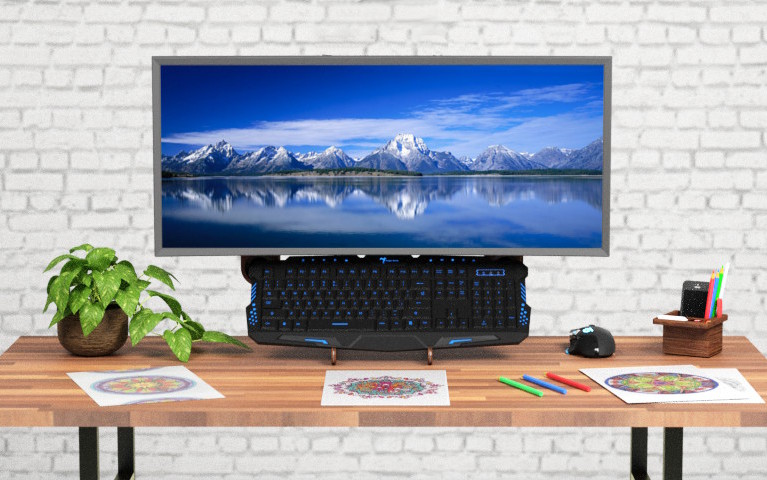
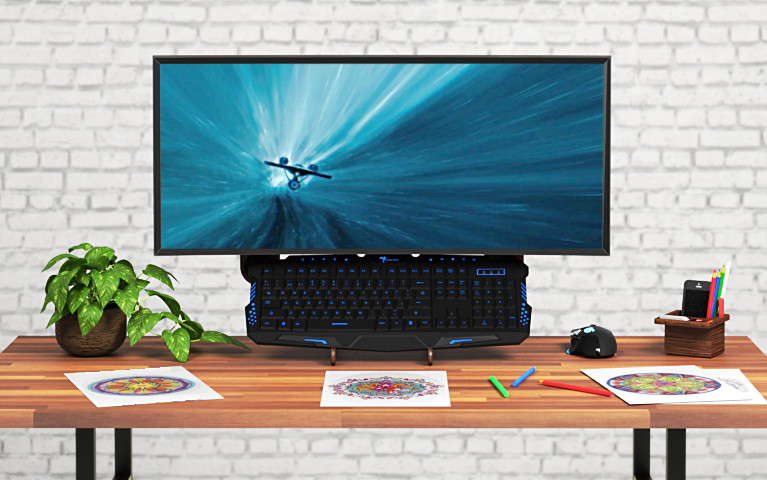
Updated space frontier picture

diff --git a/_layouts/home.html b/_layouts/home.html
@@ -29,7 +29,7 @@
         <div class="card">
           <div class="content">
             <h3 class="title text-center">
-              <span class="hidden-xs hidden-sm">Turn any Form Factor into a Modular All-in-One</span>
+              <span class="hidden-xs hidden-sm">ViDock-One works with any Form Factor</span>
               <span class="visible-xs visible-sm">Turn any form factor to All-in-One</span>
             </h3>
             <div class="card-nav-tabs tab-material">
@@ -214,7 +214,7 @@
 
 
 <div class="feature-section full-width-image" id="space-frontier">
-  <img class="img-responsive mobile-full-width-img" src="{{site.baseurl}}/images/home/home-page-teaser-m.jpg" alt="">
+  <img class="img-responsive mobile-full-width-img" src="{{site.baseurl}}/images/home/space-frontier-m.jpg" alt="">
   <div class="full-width-content">
     <div class="container">
       <h2 class="title">Enjoy Your Desk!<br><small>Space, the final frontier.</small></h2>

diff --git a/_sass/pages/_home.scss b/_sass/pages/_home.scss
@@ -1,5 +1,5 @@
 #space-frontier {
-  background-image: linear-gradient(to bottom, rgba(0, 0, 0, 0) 80%, rgba(0,0,0,0.3)), linear-gradient(to top, rgba(0, 0, 0, 0) 70%, rgba(0,0,0,0.3)), url($baseurl + "/images/home/home-page-teaser.jpg");
+  background-image: linear-gradient(to bottom, rgba(0, 0, 0, 0) 80%, rgba(0,0,0,0.3)), linear-gradient(to top, rgba(0, 0, 0, 0) 70%, rgba(0,0,0,0.3)), url($baseurl + "/images/home/space-frontier.jpg");
 
   @include media-query($on-mobile) {
     .full-width-content {

diff --git a/_sass/components/_feature-modules.scss b/_sass/components/_feature-modules.scss
@@ -7,6 +7,10 @@
   }
 
   .card {
+    display: block;
+    max-width: 640px;
+    margin: 0 auto;
+
     > .content {
       padding: 0;
 
